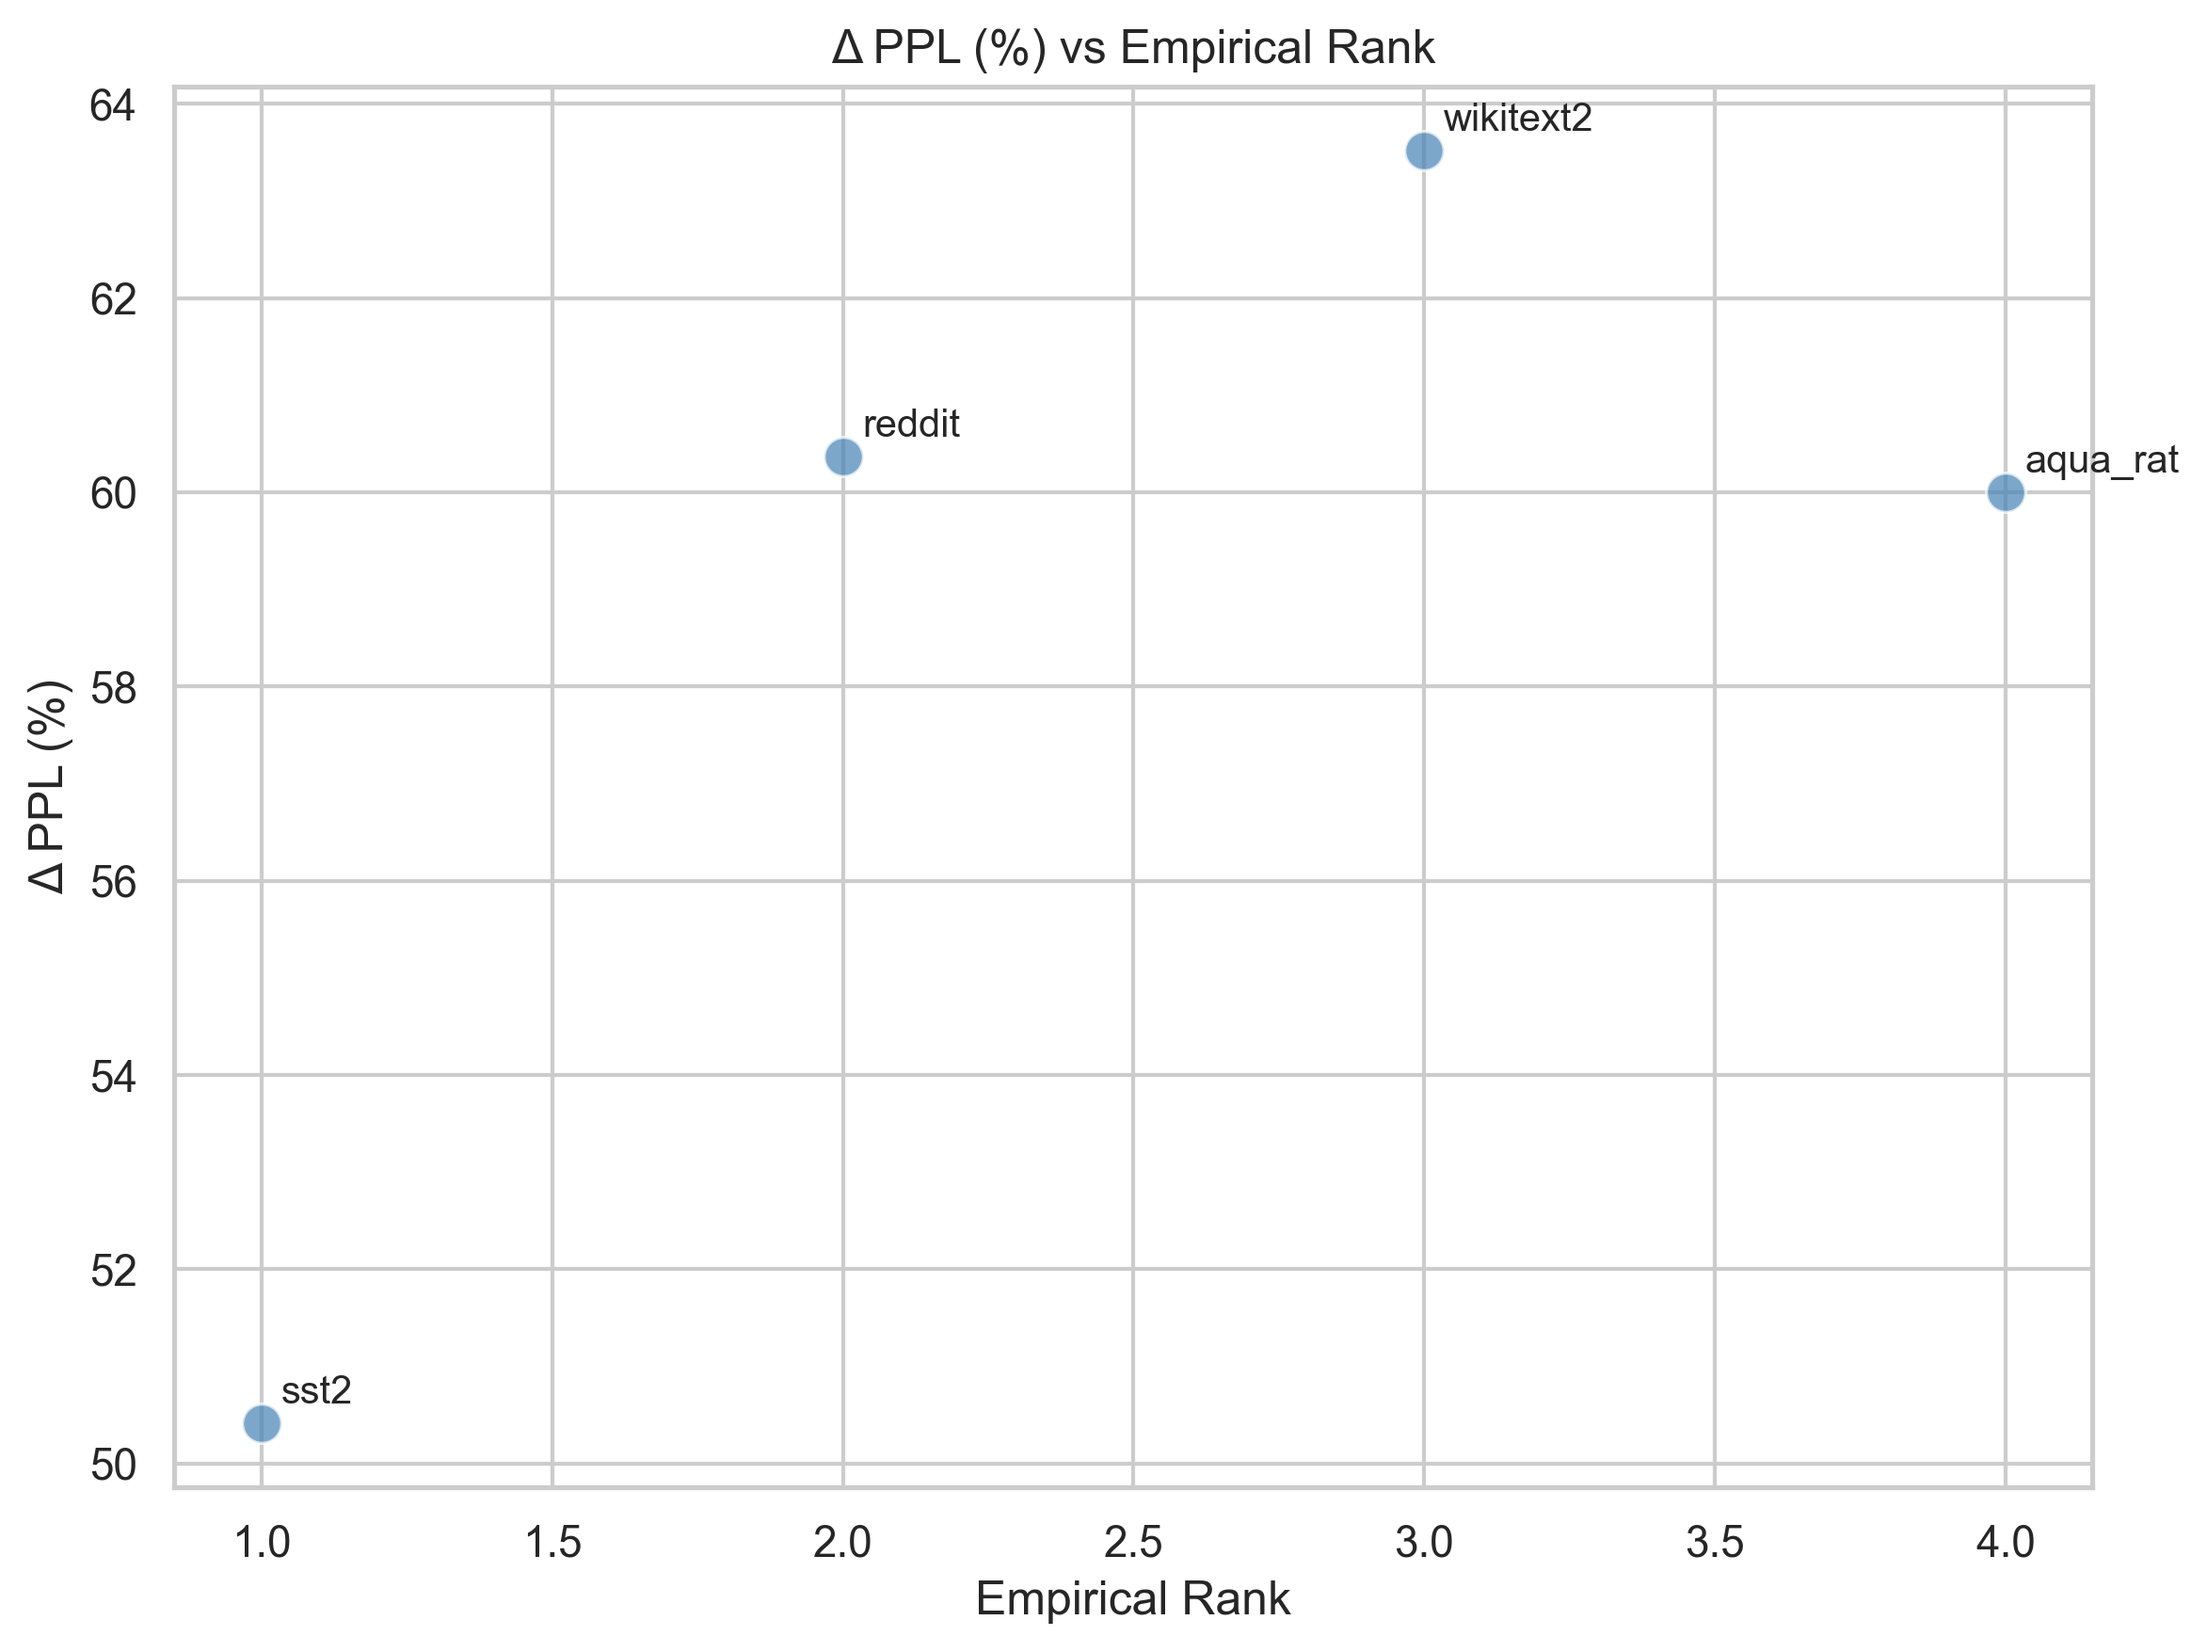
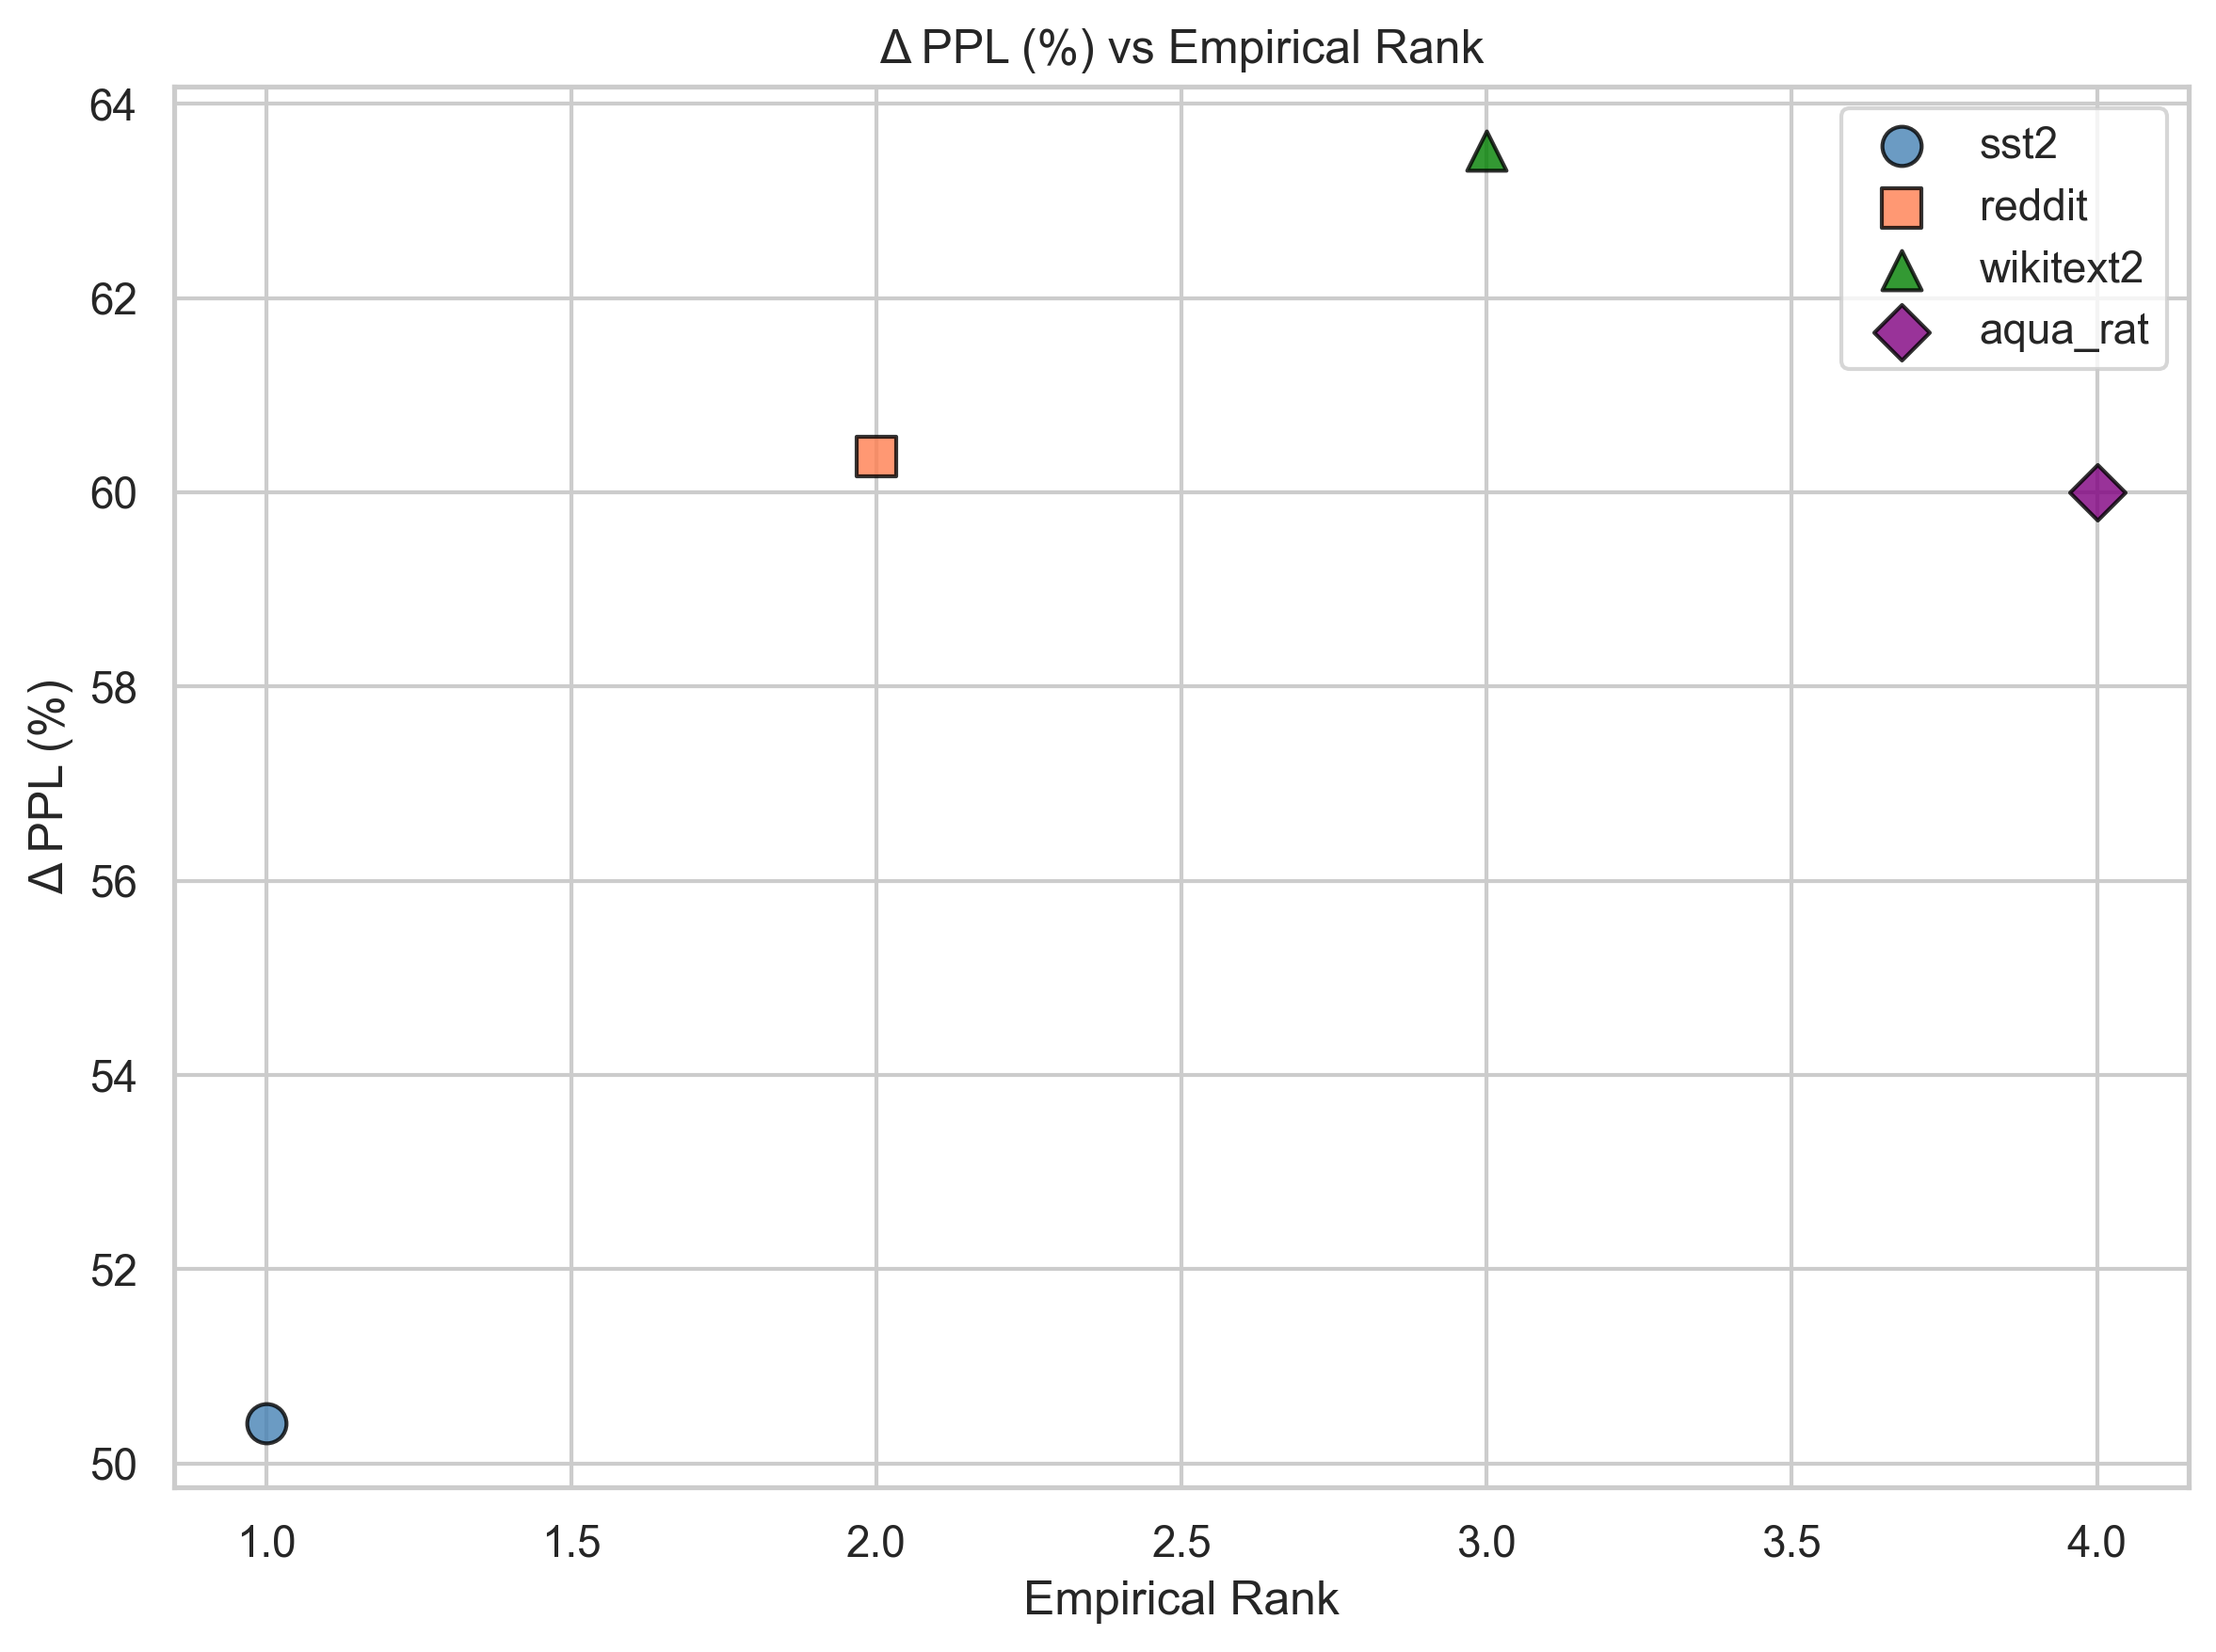
Update plot_dcomplexity

diff --git a/scripts/plot_dcomplexity.py b/scripts/plot_dcomplexity.py
@@ -21,30 +21,28 @@ plot_df = df.sort_values("Emprical Rank")
 # Create the plot using seaborn
 plt.figure(figsize=(8, 6))
 
-# Use seaborn's scatterplot
-sns.scatterplot(
-    data=plot_df,
-    x="Emprical Rank",
-    y="Delta_PPL_percent",
-    s=100,
-    alpha=0.7,
-    color="steelblue",
-)
+# Define markers and colors for each dataset
+markers = ["o", "s", "^", "D"]
+colors = ["steelblue", "coral", "green", "purple"]
 
-# Add dataset labels to points
-for _, row in plot_df.iterrows():
-    plt.annotate(
-        str(row["Dataset"]),
-        (float(row["Emprical Rank"]), float(row["Delta_PPL_percent"])),
-        xytext=(5, 5),
-        textcoords="offset points",
-        fontsize=10,
-        ha="left",
+# Plot each dataset separately with different markers
+for i, (_, row) in enumerate(plot_df.iterrows()):
+    plt.scatter(
+        row["Emprical Rank"],
+        row["Delta_PPL_percent"],
+        s=100,
+        alpha=0.8,
+        color=colors[i],
+        marker=markers[i],
+        label=row["Dataset"],
+        edgecolor="black",
+        linewidth=1,
     )
 
 plt.xlabel("Empirical Rank")
 plt.ylabel("Δ PPL (%)")
 plt.title("Δ PPL (%) vs Empirical Rank")
+plt.legend()
 
 plt.tight_layout()
 plt.savefig(OUTPUT_PATH, dpi=300, bbox_inches="tight")
